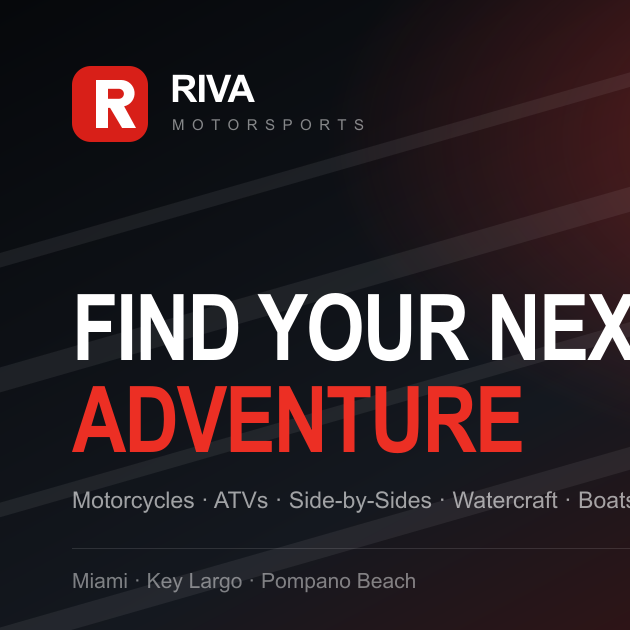
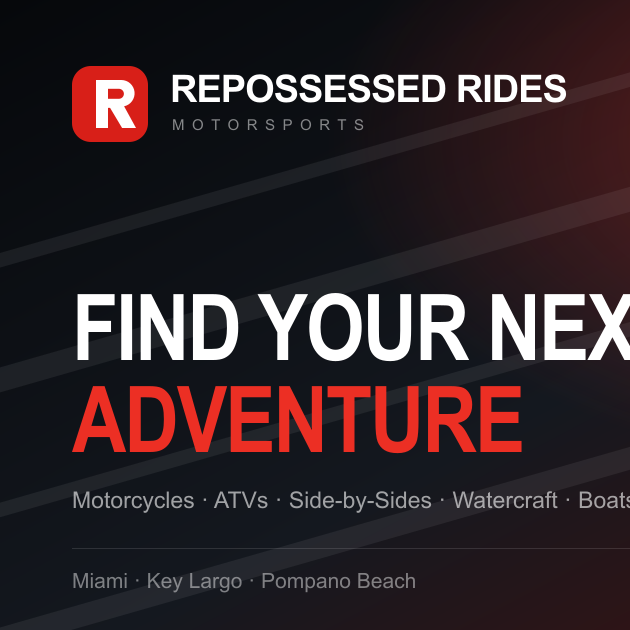
Rebrand to Repossessed Rides and remove real business identifiers
Replaces the reference dealership's name throughout so the site does not
present itself as a real business when hosted.

Also replaces details that would misdirect real customers even under a new
name: the three street addresses and phone numbers belonged to an actual
dealership. Phones now use the 555-01xx range reserved for fictional use,
and addresses are invented; map queries fall back to city level.

Changed region(s): [[0.3016, 0.0905, 0.9048, 0.181]]

diff --git a/src/data/site.ts b/src/data/site.ts
@@ -5,15 +5,15 @@
  */
 
 export const site = {
-  name: "RIVA Motorsports",
-  shortName: "RIVA",
+  name: "Repossessed Rides",
+  shortName: "Repossessed Rides",
   tagline: "South Florida's Powersports & Marine Superstore",
   description:
     "Motorcycles, ATVs, side-by-sides, watercraft, boats and golf carts from Yamaha, Suzuki, Polaris, Can-Am, Sea-Doo and CFMOTO. Sales, service, parts and financing across South Florida.",
-  url: "https://riva-nextgen.example.com",
-  email: "sales@rivamiami.com",
-  phone: "(305) 258-2000",
-  phoneHref: "tel:+13052582000",
+  url: "https://repossessed-rides.example.com",
+  email: "sales@repossessedrides.example.com",
+  phone: "(305) 555-0142",
+  phoneHref: "tel:+13055550142",
   social: {
     facebook: "https://www.facebook.com/",
     instagram: "https://www.instagram.com/",
@@ -132,14 +132,14 @@ export type Location = {
 export const locations: Location[] = [
   {
     id: "miami",
-    name: "RIVA Motorsports Miami",
+    name: "Repossessed Rides Miami",
     city: "Miami",
-    street: "11995 SW 222nd St",
+    street: "8420 Palm Trail",
     region: "FL",
     postalCode: "33170",
-    phone: "(305) 258-2000",
-    phoneHref: "tel:+13052582000",
-    email: "sales@rivamiami.com",
+    phone: "(305) 555-0142",
+    phoneHref: "tel:+13055550142",
+    email: "sales@repossessedrides.example.com",
     geo: { lat: 25.5271, lng: -80.3931 },
     hours: [
       { days: "Monday – Friday", open: "9:00 AM – 6:00 PM" },
@@ -147,18 +147,18 @@ export const locations: Location[] = [
       { days: "Sunday", open: "Closed" },
     ],
     specialties: ["Motorcycles", "ATVs & UTVs", "Watercraft", "Golf Carts"],
-    mapQuery: "11995 SW 222nd St, Miami, FL 33170",
+    mapQuery: "Miami, FL 33170",
   },
   {
     id: "key-largo",
-    name: "RIVA Motorsports & Marine of the Keys",
+    name: "Repossessed Rides Marine of the Keys",
     city: "Key Largo",
-    street: "103400 Overseas Hwy",
+    street: "215 Coral Point Way",
     region: "FL",
     postalCode: "33037",
-    phone: "(305) 453-7000",
-    phoneHref: "tel:+13054537000",
-    email: "keys@rivamiami.com",
+    phone: "(305) 555-0178",
+    phoneHref: "tel:+13055550178",
+    email: "keys@repossessedrides.example.com",
     geo: { lat: 25.1224, lng: -80.4128 },
     hours: [
       { days: "Monday – Friday", open: "9:00 AM – 6:00 PM" },
@@ -166,18 +166,18 @@ export const locations: Location[] = [
       { days: "Sunday", open: "Closed" },
     ],
     specialties: ["Boats", "Outboards", "Watercraft", "Marine Service"],
-    mapQuery: "103400 Overseas Hwy, Key Largo, FL 33037",
+    mapQuery: "Key Largo, FL 33037",
   },
   {
     id: "pompano",
-    name: "RIVA Motorsports Pompano Beach",
+    name: "Repossessed Rides Pompano Beach",
     city: "Pompano Beach",
-    street: "1560 N Federal Hwy",
+    street: "640 Marina Vista Blvd",
     region: "FL",
     postalCode: "33062",
-    phone: "(954) 785-4820",
-    phoneHref: "tel:+19547854820",
-    email: "pompano@rivamiami.com",
+    phone: "(954) 555-0116",
+    phoneHref: "tel:+19545550116",
+    email: "pompano@repossessedrides.example.com",
     geo: { lat: 26.2504, lng: -80.1187 },
     hours: [
       { days: "Monday – Friday", open: "9:00 AM – 6:00 PM" },
@@ -185,7 +185,7 @@ export const locations: Location[] = [
       { days: "Sunday", open: "Closed" },
     ],
     specialties: ["Watercraft", "Side-by-Sides", "Scooters", "Parts"],
-    mapQuery: "1560 N Federal Hwy, Pompano Beach, FL 33062",
+    mapQuery: "Pompano Beach, FL 33062",
   },
 ];
 
@@ -215,7 +215,7 @@ export const footerColumns: { heading: string; links: NavLink[] }[] = [
   {
     heading: "Company",
     links: [
-      { label: "About RIVA", href: "/about" },
+      { label: "About Us", href: "/about" },
       { label: "Locations & Hours", href: "/locations" },
       { label: "Contact Us", href: "/contact" },
       { label: "Careers", href: "/about#careers" },

diff --git a/src/app/about/page.tsx b/src/app/about/page.tsx
@@ -11,7 +11,7 @@ import { ButtonLink, SlideArrow } from "@/components/ui/Button";
 import { site } from "@/data/site";
 
 export const metadata: Metadata = {
-  title: "About RIVA Motorsports",
+  title: "About Repossessed Rides",
   description:
     "Two decades selling and servicing powersports and marine in South Florida. Three stores, nine departments, factory-certified technicians and no commission-driven sales floor.",
   alternates: { canonical: "/about" },
@@ -69,7 +69,7 @@ export default function AboutPage() {
             <div className="relative aspect-[4/3] overflow-hidden rounded-2xl">
               <Image
                 src="/images/dealership/showroom.webp"
-                alt="Stylised artwork of the RIVA Motorsports showroom"
+                alt="Stylised artwork of the Repossessed Rides showroom"
                 fill
                 sizes="(max-width: 1024px) 100vw, 50vw"
                 className="object-cover"
@@ -82,7 +82,7 @@ export default function AboutPage() {
               <h2 className="display-lg text-ink-900">A dealer built by people who ride</h2>
               <div className="mt-5 space-y-4 text-base leading-relaxed text-ink-600">
                 <p>
-                  RIVA started because the founders were tired of buying machines from people who
+                  REPOSSESSED RIDES started because the founders were tired of buying machines from people who
                   didn't use them. Everyone here rides, launches or drives something we sell, which
                   turns out to matter enormously when you're being asked which unit is right.
                 </p>

diff --git a/src/components/BrandSection.tsx b/src/components/BrandSection.tsx
@@ -38,7 +38,7 @@ export function BrandSection() {
               >
                 <Image
                   src={brand.image}
-                  alt={`${brand.name} models at RIVA Motorsports`}
+                  alt={`${brand.name} models at Repossessed Rides`}
                   fill
                   sizes="(max-width: 640px) 50vw, (max-width: 1024px) 33vw, 25vw"
                   className="object-cover transition-transform duration-[900ms] ease-[var(--ease-out-expo)] group-hover/tile:scale-[1.07]"
@@ -85,7 +85,7 @@ export function BrandSection() {
             >
               <Image
                 src="/images/brands/all-inventory.webp"
-                alt="Browse the full RIVA Motorsports inventory"
+                alt="Browse the full Repossessed Rides inventory"
                 fill
                 sizes="(max-width: 1024px) 100vw, 50vw"
                 className="object-cover transition-transform duration-[900ms] ease-[var(--ease-out-expo)] group-hover/tile:scale-[1.07]"

diff --git a/src/components/About.tsx b/src/components/About.tsx
@@ -18,7 +18,7 @@ export function About() {
           <div className="relative aspect-[4/3] overflow-hidden rounded-2xl bg-ink-900 shadow-lift-lg">
             <Image
               src="/images/dealership/showroom.webp"
-              alt="Stylised artwork of the RIVA Motorsports showroom floor"
+              alt="Stylised artwork of the Repossessed Rides showroom floor"
               fill
               sizes="(max-width: 1024px) 100vw, 50vw"
               className="object-cover"
@@ -48,7 +48,7 @@ export function About() {
 
         <div>
           <Reveal>
-            <p className="eyebrow mb-3 text-accent-500">About RIVA</p>
+            <p className="eyebrow mb-3 text-accent-500">About Us</p>
             <h2 id="about-heading" className="display-lg text-ink-900">
               Two decades of getting South Florida out on the water and into the dirt
             </h2>

diff --git a/src/components/PageLoader.tsx b/src/components/PageLoader.tsx
@@ -4,7 +4,7 @@ import { useEffect, useState } from "react";
 import { AnimatePresence, motion, useReducedMotion } from "framer-motion";
 import { EASE } from "./motion/Reveal";
 
-const SESSION_KEY = "riva:intro-played";
+const SESSION_KEY = "repossessed-rides:intro-played";
 
 /**
  * First-visit intro: the mark draws in, then two panels split away to reveal
@@ -107,7 +107,7 @@ export function PageLoader() {
               animate={{ opacity: 1, y: 0 }}
               transition={{ delay: 0.45, duration: 0.5, ease: EASE }}
             >
-              Riva Motorsports
+              Repossessed Rides
             </motion.p>
           </motion.div>
         </motion.div>

diff --git a/src/app/inventory/page.tsx b/src/app/inventory/page.tsx
@@ -21,7 +21,7 @@ export async function generateMetadata({
 
   const title = category ? `${category.name} for sale in South Florida` : "Inventory";
   const description = category
-    ? `${category.blurb} Browse ${category.name.toLowerCase()} in stock at RIVA Motorsports across Miami, Key Largo and Pompano Beach.`
+    ? `${category.blurb} Browse ${category.name.toLowerCase()} in stock at Repossessed Rides across Miami, Key Largo and Pompano Beach.`
     : "Filter every new and pre-owned unit in stock across our three South Florida stores by make, model, price, condition and location.";
 
   return {

diff --git a/src/app/specials/page.tsx b/src/app/specials/page.tsx
@@ -13,7 +13,7 @@ import { formatPrice } from "@/lib/finance";
 export const metadata: Metadata = {
   title: "Manager's Specials",
   description:
-    "Discounted new and pre-owned powersports units at RIVA Motorsports. Factory rebates stacked with dealer discounts across Miami, Key Largo and Pompano Beach.",
+    "Discounted new and pre-owned powersports units at Repossessed Rides. Factory rebates stacked with dealer discounts across Miami, Key Largo and Pompano Beach.",
   alternates: { canonical: "/specials" },
 };
 

diff --git a/src/app/financing/page.tsx b/src/app/financing/page.tsx
@@ -11,7 +11,7 @@ import { site } from "@/data/site";
 export const metadata: Metadata = {
   title: "Powersports Financing",
   description:
-    "Apply for motorcycle, ATV, UTV, watercraft and boat financing at RIVA Motorsports. Multiple lenders, terms to 84 months, approvals across the credit spectrum.",
+    "Apply for motorcycle, ATV, UTV, watercraft and boat financing at Repossessed Rides. Multiple lenders, terms to 84 months, approvals across the credit spectrum.",
   alternates: { canonical: "/financing" },
 };
 

diff --git a/src/app/trade-in/page.tsx b/src/app/trade-in/page.tsx
@@ -9,7 +9,7 @@ import { site } from "@/data/site";
 export const metadata: Metadata = {
   title: "Value My Trade",
   description:
-    "Get a real appraisal on your motorcycle, ATV, UTV, watercraft or boat. RIVA Motorsports appraises anything with an engine, whether or not you buy from us.",
+    "Get a real appraisal on your motorcycle, ATV, UTV, watercraft or boat. Repossessed Rides appraises anything with an engine, whether or not you buy from us.",
   alternates: { canonical: "/trade-in" },
 };
 

diff --git a/src/app/parts/page.tsx b/src/app/parts/page.tsx
@@ -11,7 +11,7 @@ import { site } from "@/data/site";
 export const metadata: Metadata = {
   title: "Parts & Accessories",
   description:
-    "OEM parts, accessories, helmets and riding gear for Yamaha, Suzuki, Polaris, Can-Am, Sea-Doo, CFMOTO and more at RIVA Motorsports in South Florida.",
+    "OEM parts, accessories, helmets and riding gear for Yamaha, Suzuki, Polaris, Can-Am, Sea-Doo, CFMOTO and more at Repossessed Rides in South Florida.",
   alternates: { canonical: "/parts" },
 };
 

diff --git a/src/app/inventory/[slug]/page.tsx b/src/app/inventory/[slug]/page.tsx
@@ -28,7 +28,7 @@ export async function generateMetadata({
   if (!product) return { title: "Unit not found" };
 
   const title = `${product.title} — ${formatPrice(product.price)}`;
-  const description = `${product.condition} ${product.title} in stock at RIVA Motorsports. ${product.description.slice(0, 130)}...`;
+  const description = `${product.condition} ${product.title} in stock at Repossessed Rides. ${product.description.slice(0, 130)}...`;
 
   return {
     title,

diff --git a/src/app/contact/page.tsx b/src/app/contact/page.tsx
@@ -7,7 +7,7 @@ import { site } from "@/data/site";
 export const metadata: Metadata = {
   title: "Contact Us",
   description:
-    "Call, email or message RIVA Motorsports. Sales, service, parts and financing enquiries across our Miami, Key Largo and Pompano Beach stores.",
+    "Call, email or message Repossessed Rides. Sales, service, parts and financing enquiries across our Miami, Key Largo and Pompano Beach stores.",
   alternates: { canonical: "/contact" },
 };
 
